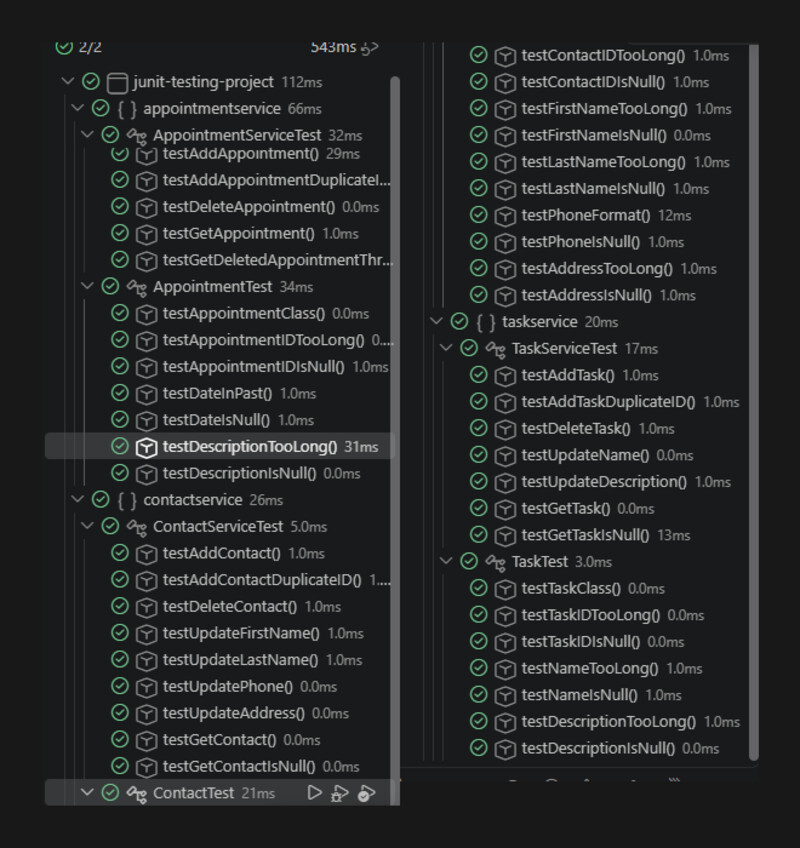
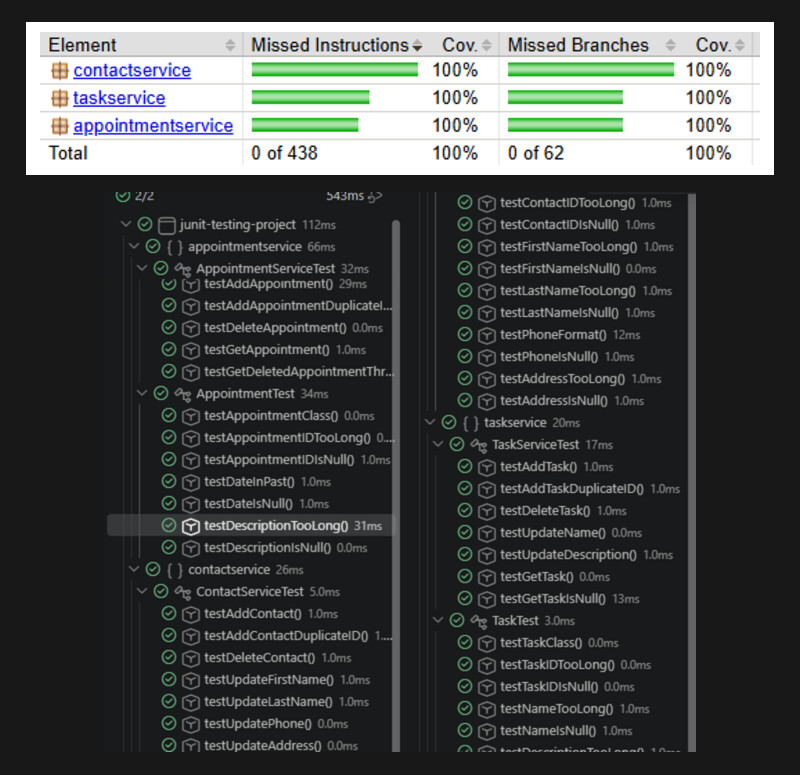
Show coverage table on JUnit cover and align card heights
The JUnit cover now pairs the JaCoCo 100% coverage table with the
passing test run. Its four-line description made the card's image
shrink by 26px, so the description is shortened to three lines to
match the other cards.

Claude-Session: https://claude.ai/code/session_01SEEXEg2JWe1sTWDT6Rrpws

diff --git a/src/data/projectsData.ts b/src/data/projectsData.ts
@@ -126,7 +126,7 @@ export const PROJECTS = [
       "/image/junit1.jpg",
     ],
     title: "Java Service Tests",
-    desc: "Contact, task and appointment services in Java, covered by 46 JUnit tests at 100% coverage and run on every push with GitHub Actions.",
+    desc: "Java services for contacts, tasks and appointments, backed by 46 JUnit tests at 100% coverage.",
     href: "https://github.com/mkibler7/JUnitTestingProject",
     skills: [
       "Java",
